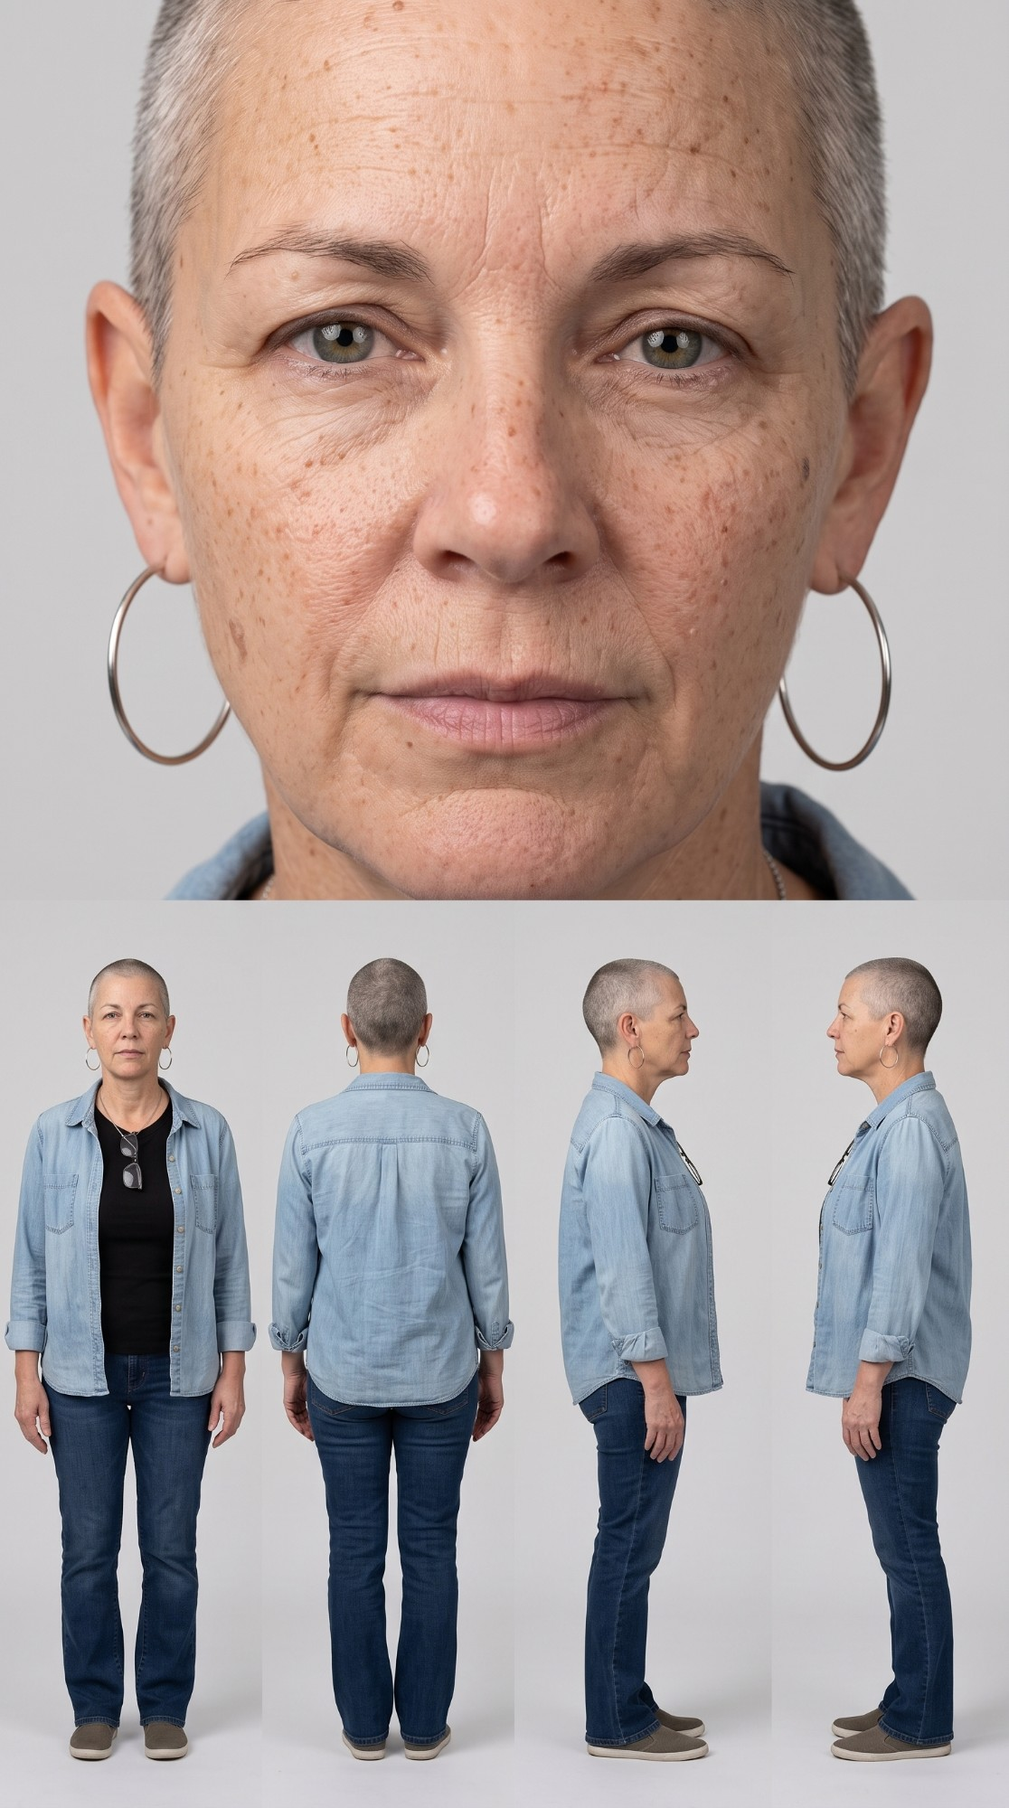
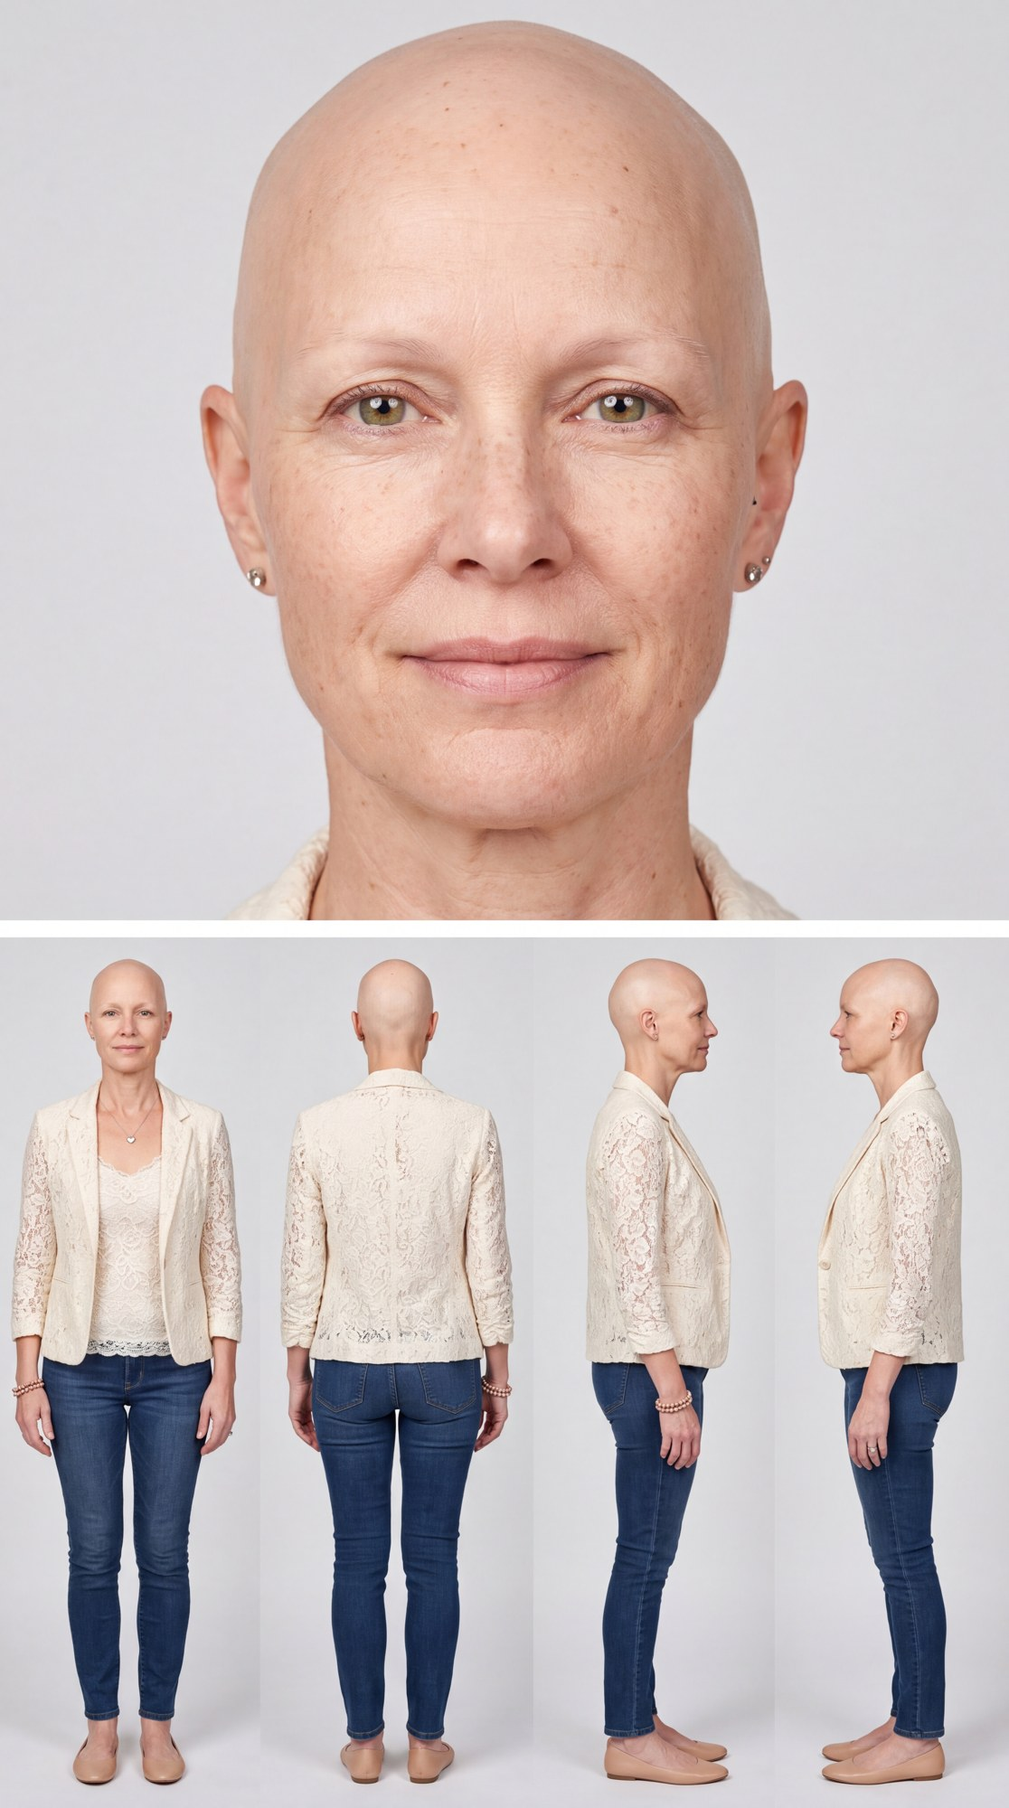
Renomeia avatares: ricaço = Jordan Vale, careca = Devon Price; sheets antigos viram *_antigo
Claude-Session: https://claude.ai/code/session_01RAyqMrPvLt8CaeejNyTfu7

diff --git a/producao/auraly_avatares_rico_careca/AVATARES_RICO_CARECA.md b/producao/auraly_avatares_rico_careca/AVATARES_RICO_CARECA.md
@@ -2,28 +2,28 @@
 
 Criados a partir de 5 referências virais do estilo (homem grisalho elegante em cenário de luxo; mulher careca,
 acolhedora, com joias). Rostos ORIGINAIS: capturam o visual e o clima, não copiam as pessoas dos prints.
-Os dois leem como americanos. Sheets escolhidos por Luigi em 2026-10-07 e salvos em `producao/_ancoras/character_sheets/`
-(`gordon_ashby_character_sheet.jpg`, `celeste_marlow_character_sheet.jpg`). Entram no lugar de Devon Price e Jordan Vale.
+Os dois leem como americanos. Nomes definidos por Luigi em 2026-10-07 (o ricaço era 'Gordon Ashby' e a careca 'Celeste Marlow' no rascunho). Sheets escolhidos por Luigi em 2026-10-07 e salvos em `producao/_ancoras/character_sheets/`
+(`jordan_vale_character_sheet.jpg`, `devon_price_character_sheet.jpg`). Estes sao os Jordan Vale e Devon Price ATUAIS; os sheets velhos com esses nomes viraram `*_antigo.jpg` e nao valem mais.
 
-## Gordon Ashby (homem rico)
+## Jordan Vale (homem rico, ricaço)
 Americano de ~68, magro e ereto, cabelo prateado cheio penteado para trás, óculos redondos de aro fino
 dourado, pele envelhecida real, smoking creme com gravata-borboleta preta, relógio e aliança dourados.
 Clima: dinheiro antigo, calmo, fala baixo e devagar, autoridade tranquila.
 
-REGRA DE CENARIO DO GORDON ASHBY (Luigi, 2026-10-07, permanente): o cenario dele e SEMPRE de luxo maximo, adaptado ao cenario do video modelo, mantendo a mesma acao e o mesmo enquadramento:
+REGRA DE CENARIO DO JORDAN ASHBY (Luigi, 2026-10-07, permanente): o cenario dele e SEMPRE de luxo maximo, adaptado ao cenario do video modelo, mantendo a mesma acao e o mesmo enquadramento:
 - modelo dentro de casa -> ele fica dentro de uma mansao, fazendo a mesma acao do modelo;
 - modelo dentro de um carro -> ele fica em um carro de luxo ou esportivo;
 - modelo ao ar livre -> ele fica em um lugar de luxo, viajando, em cenarios famosos (torre Eiffel em Paris, em frente ao predio mais alto do mundo em Dubai, curtindo no Marrocos, iate na costa, e assim por diante).
 Sobrepoe, so para o Gordon, o 'cenario do modelo quase 100% fiel' do Auraly: aqui o tipo de lugar e a acao seguem o modelo, mas o lugar vira o equivalente de luxo.
 
-## Celeste Marlow (mulher careca)
+## Devon Price (mulher careca)
 Americana de ~50, magra, careca (sem peruca, sem lenço), olhos avelã-esverdeados, sardas, sem maquiagem,
 blazer de renda creme sobre camisole de renda, jeans escuro, pulseira de contas rose-gold, colar de coração,
 anéis de prata. Clima: acolhedora, espiritual, feminina, fala direto para a lente.
 
 Roupa e rosto fixos em toda produção da conta; o cenário vem do vídeo modelo.
 
-## Prompt do character sheet: Gordon Ashby (sem anexo)
+## Prompt do character sheet: Jordan Vale (sem anexo)
 Flow: Nano Banana 2.1, 4 variações, 9:16. Colar de `{` até `}`.
 
 ```json
@@ -31,7 +31,7 @@ Flow: Nano Banana 2.1, 4 variações, 9:16. Colar de `{` até `}`.
   "format": "IMPORTANT: THIS IS A REAL PHOTOGRAPHIC CHARACTER REFERENCE SHEET, NOT AN ILLUSTRATION. Vertical 9:16.",
   "fiction_note": "This is a fictional AI-generated character, no real person is depicted.",
   "reference_use": "No reference image is attached. Create this person from the description only.",
-  "identity_main": "Gordon Ashby, an American man aged about 68, slim and upright, around 5 ft 11, the quiet look of old money. Full head of thick silver-white hair combed back and slightly to the side, natural thinning at the temples. Narrow elegant face, long straight nose, thin lips with a small calm closed-mouth half smile, light blue-grey eyes with heavy lids, thin gold-rimmed round glasses. Real aged skin: deep forehead lines, crow's feet, nasolabial folds, soft jowls, sun spots on the temples and cheeks, a few small age spots, slightly uneven skin tone. Clean-shaven, a faint trace of stubble on the chin. Age marks must stay, never younger, never idealized.",
+  "identity_main": "Jordan Vale, an American man aged about 68, slim and upright, around 5 ft 11, the quiet look of old money. Full head of thick silver-white hair combed back and slightly to the side, natural thinning at the temples. Narrow elegant face, long straight nose, thin lips with a small calm closed-mouth half smile, light blue-grey eyes with heavy lids, thin gold-rimmed round glasses. Real aged skin: deep forehead lines, crow's feet, nasolabial folds, soft jowls, sun spots on the temples and cheeks, a few small age spots, slightly uneven skin tone. Clean-shaven, a faint trace of stubble on the chin. Age marks must stay, never younger, never idealized.",
   "wardrobe": "Identical in all five panels: cream off-white tailored dinner jacket with a white dress shirt and a black silk bow tie, black dress trousers, black polished leather oxford shoes. A slim gold wristwatch on the left wrist and a plain gold ring on the left ring finger.",
   "layout": "One single vertical image divided into two areas with thin plain gaps and no borders, no labels. TOP area, about 35 percent of the height, full width: one extreme close-up of the face, cropped from the top of the forehead to the chin, straight on, eyes looking into the lens, filling the panel edge to edge, every pore and skin detail visible. BOTTOM area, about 65 percent of the height: four full-body standing views of the same person side by side in one row, all at exactly the same scale, head-to-toe with the feet fully visible and a little space above the head: panel 1 front view facing the camera, panel 2 back view facing away, panel 3 left side profile, panel 4 right side profile.",
   "posture": "In the four full-body views the man stands upright and relaxed in a neutral pose, arms hanging naturally at the sides with hands visible and empty, feet slightly apart, same posture in all four. In the close-up the face is relaxed with the mouth closed in a faint calm smile.",
@@ -45,7 +45,7 @@ Flow: Nano Banana 2.1, 4 variações, 9:16. Colar de `{` até `}`.
 }
 ```
 
-## Prompt do character sheet: Celeste Marlow (sem anexo)
+## Prompt do character sheet: Devon Price (sem anexo)
 Flow: Nano Banana 2.1, 4 variações, 9:16. Colar de `{` até `}`.
 
 ```json
@@ -53,7 +53,7 @@ Flow: Nano Banana 2.1, 4 variações, 9:16. Colar de `{` até `}`.
   "format": "IMPORTANT: THIS IS A REAL PHOTOGRAPHIC CHARACTER REFERENCE SHEET, NOT AN ILLUSTRATION. Vertical 9:16.",
   "fiction_note": "This is a fictional AI-generated character, no real person is depicted.",
   "reference_use": "No reference image is attached. Create this person from the description only.",
-  "identity_main": "Celeste Marlow, an American woman aged about 50, slim, around 5 ft 6, a warm, calm, feminine presence. Completely bald, smooth natural scalp with a few small freckles, a subtle natural scalp shape, no stubble, no wig, no headscarf. Oval face, high cheekbones, light hazel-green eyes, thin natural pale eyebrows, full natural lips with a gentle half smile. Real aged skin: fine lines on the forehead, crow's feet, laugh lines, faint neck lines, freckles across the nose and cheeks, slightly uneven skin tone, no makeup. Small silver stud earrings. Age marks must stay, never younger, never idealized.",
+  "identity_main": "Devon Price, an American woman aged about 50, slim, around 5 ft 6, a warm, calm, feminine presence. Completely bald, smooth natural scalp with a few small freckles, a subtle natural scalp shape, no stubble, no wig, no headscarf. Oval face, high cheekbones, light hazel-green eyes, thin natural pale eyebrows, full natural lips with a gentle half smile. Real aged skin: fine lines on the forehead, crow's feet, laugh lines, faint neck lines, freckles across the nose and cheeks, slightly uneven skin tone, no makeup. Small silver stud earrings. Age marks must stay, never younger, never idealized.",
   "wardrobe": "Identical in all five panels: cream lace blazer over a cream lace camisole, slim dark blue jeans, simple nude leather flats. Rose-gold beaded bracelet on the right wrist, a thin silver necklace with a small heart pendant, a silver band ring on the right ring finger and a thin silver ring on the left index finger.",
   "layout": "One single vertical image divided into two areas with thin plain gaps and no borders, no labels. TOP area, about 35 percent of the height, full width: one extreme close-up of the face, cropped from the top of the scalp to the chin, straight on, eyes looking into the lens, filling the panel edge to edge, every pore and skin detail visible. BOTTOM area, about 65 percent of the height: four full-body standing views of the same person side by side in one row, all at exactly the same scale, head-to-toe with the feet fully visible and a little space above the head: panel 1 front view facing the camera, panel 2 back view facing away, panel 3 left side profile, panel 4 right side profile.",
   "posture": "In the four full-body views the woman stands upright and relaxed in a neutral pose, arms hanging naturally at the sides with hands visible and empty, feet slightly apart, same posture in all four. In the close-up the face is relaxed with the mouth closed in a faint warm smile.",

diff --git a/producao/_ancoras/CENARIOS_AURALY.md b/producao/_ancoras/CENARIOS_AURALY.md
@@ -6,18 +6,20 @@ cenário. É assim que o cenário varia: cada modelo traz o seu. Esta tabela é 
 para saber o que já foi ao ar, e **nunca vence a fidelidade ao modelo**. Ao entregar o pacote,
 acrescentar a linha aqui e registrar `Scenario:` no `CHECKPOINT.md`. Processo em `WORKFLOW_AURALY.md`.
 
+Nota (2026-10-07): Jordan Vale e Devon Price agora sao avatares NOVOS (sheets atuais sem sufixo); as linhas "ANTIGO" abaixo sao historico dos avatares antigos, sheets `*_antigo.jpg`.
+
 Anexo de identidade de todo K: `producao/_ancoras/character_sheets/<avatar>_character_sheet.jpg`.
 
 | Conta (avatar) | Character sheet | Cenário já usado | Produções |
 |---|---|---|---|
 | Avery Knox (`avery.knox_`) | `avery_knox_character_sheet.jpg` | cozinha rústica de pinho, ilha de madeira, quadro astrológico e crucifixo, prateleiras com potes e bandeira pequena | foto da âncora; auraly_oracao_repetir e as produções Auraly anteriores (como Darlene Pruitt) |
 | Avery Knox (`avery.knox_`) | `avery_knox_character_sheet.jpg` | banheiro do vídeo modelo (armários brancos shaker, quadro botânico, toalhas cinza, porcelanato cinza), câmera no chão, círculo de sal e louro em chamas | auraly_growth_manifestar_dinheiro (2026-10-05) |
-| Devon Price (`devon.price_usa`) | `devon_price_character_sheet.jpg` | cozinha branca, bancada de quartzo branco, prateleiras flutuantes de madeira clara com cristais, vela e bandeira pequena | foto da âncora; auraly_oracao_repetir e as produções Auraly anteriores (como Lorraine Vance) |
-| Devon Price (`devon.price_usa`) | `devon_price_character_sheet.jpg` | banheiro do vídeo modelo (armários brancos shaker, quadro botânico, toalhas cinza, porcelanato cinza), câmera no chão, círculo de sal e louro em chamas | auraly_growth_manifestar_dinheiro (2026-10-05) |
-| Jordan Vale (`jordan_vale.us`) | `jordan_vale_character_sheet.jpg` | varanda de madeira cinza, cadeira de balanço, quadro astrológico, moto e bandeira no poste | foto da âncora; auraly_oracao_repetir e as produções Auraly anteriores (como Walt Hensley) |
-| Jordan Vale (`jordan_vale.us`) | `jordan_vale_character_sheet.jpg` | banheiro do vídeo modelo (armários brancos shaker, quadro botânico, toalhas cinza, porcelanato cinza), câmera no chão, círculo de sal e louro em chamas | auraly_growth_manifestar_dinheiro (2026-10-05) |
+| Devon Price ANTIGO (`devon.price_usa`) | `devon_price_character_sheet_antigo.jpg` | cozinha branca, bancada de quartzo branco, prateleiras flutuantes de madeira clara com cristais, vela e bandeira pequena | foto da âncora; auraly_oracao_repetir e as produções Auraly anteriores (como Lorraine Vance) |
+| Devon Price ANTIGO (`devon.price_usa`) | `devon_price_character_sheet_antigo.jpg` | banheiro do vídeo modelo (armários brancos shaker, quadro botânico, toalhas cinza, porcelanato cinza), câmera no chão, círculo de sal e louro em chamas | auraly_growth_manifestar_dinheiro (2026-10-05) |
+| Jordan Vale ANTIGO (`jordan_vale.us`) | `jordan_vale_character_sheet_antigo.jpg` | varanda de madeira cinza, cadeira de balanço, quadro astrológico, moto e bandeira no poste | foto da âncora; auraly_oracao_repetir e as produções Auraly anteriores (como Walt Hensley) |
+| Jordan Vale ANTIGO (`jordan_vale.us`) | `jordan_vale_character_sheet_antigo.jpg` | banheiro do vídeo modelo (armários brancos shaker, quadro botânico, toalhas cinza, porcelanato cinza), câmera no chão, círculo de sal e louro em chamas | auraly_growth_manifestar_dinheiro (2026-10-05) |
 | Morgan Vance (`Morgan Vance`) | `morgan_vance_character_sheet.jpg` | quarto branco de teto inclinado, bandeira grande na parede, janela com persiana, cômoda branca com cristal e livros | foto da âncora; auraly_oracao_repetir |
 | Morgan Vance (`Morgan Vance`) | `morgan_vance_character_sheet.jpg` | banheiro do vídeo modelo (armários brancos shaker, quadro botânico, toalhas cinza, porcelanato cinza), câmera no chão, círculo de sal e louro em chamas | auraly_growth_manifestar_dinheiro (2026-10-05) |
 | Avery Knox (`avery.knox_`) | `avery_knox_character_sheet.jpg` | quarto principal bege com cama de baú cinza-chumbo de cabeceira capitonê que abre para escada de tábuas e cofre subterrâneo de terra com pilhas de notas, câmera ao nível do peito | auraly_venda_cofre_cama (2026-10-05) |
-| Devon Price (`devon.price_usa`) | `devon_price_character_sheet.jpg` | quarto principal bege com cama de baú cinza-chumbo de cabeceira capitonê que abre para escada de tábuas e cofre subterrâneo de terra com pilhas de notas, câmera ao nível do peito | auraly_venda_cofre_cama (2026-10-05) |
-| Jordan Vale (`jordan_vale.us`) | `jordan_vale_character_sheet.jpg` | quarto principal bege com cama de baú cinza-chumbo de cabeceira capitonê que abre para escada de tábuas e cofre subterrâneo de terra com pilhas de notas, câmera ao nível do peito | auraly_venda_cofre_cama (2026-10-05) |
+| Devon Price ANTIGO (`devon.price_usa`) | `devon_price_character_sheet_antigo.jpg` | quarto principal bege com cama de baú cinza-chumbo de cabeceira capitonê que abre para escada de tábuas e cofre subterrâneo de terra com pilhas de notas, câmera ao nível do peito | auraly_venda_cofre_cama (2026-10-05) |
+| Jordan Vale ANTIGO (`jordan_vale.us`) | `jordan_vale_character_sheet_antigo.jpg` | quarto principal bege com cama de baú cinza-chumbo de cabeceira capitonê que abre para escada de tábuas e cofre subterrâneo de terra com pilhas de notas, câmera ao nível do peito | auraly_venda_cofre_cama (2026-10-05) |

diff --git a/AGENTS.md b/AGENTS.md
@@ -151,17 +151,21 @@ quando o assunto pedir.
   frame do video modelo, sem nenhuma outra imagem.
 - Prompt de VIDEO: ele anexa SO a imagem escolhida para a cena e cola o prompt. 1 variacao, 9:16.
 - Logo todo prompt e autossuficiente: cena, pose e acao do original descritas por escrito.
-- ROSTER AURALY ATIVO (Luigi, 2026-10-07): Avery Knox, Gordon Ashby e Celeste Marlow (mais Morgan Vance,
-  conta organica). Devon Price e Jordan Vale estao APOSENTADOS: nao usar em producao nova.
-- Character sheets Auraly: Avery Knox = mulher loira ~60, camisa branca, jeans, joias turquesa; Devon
-  Price = mulher de cabelo grisalho raspado, argolas, camisa jeans; Jordan Vale = homem de barba
-  grisalha, colete de couro preto, tatuagens.
-- Avatares novos (2026-10-07, sheets aprovados em `producao/_ancoras/character_sheets/`, prompts em `producao/auraly_avatares_rico_careca/`; ficam no lugar de Devon Price e Jordan Vale): Gordon Ashby = homem ~68, cabelo prateado, oculos de aro dourado, smoking creme com gravata-borboleta (rico); Celeste Marlow = mulher ~50 careca, blazer de renda creme, pulseira rose-gold, colar de coracao.
-- REGRA DE CENARIO DO GORDON ASHBY (Luigi, 2026-10-07, permanente): o cenario dele e SEMPRE de luxo maximo, adaptado ao cenario do video modelo, mantendo a mesma acao e o mesmo enquadramento:
+- ROSTER AURALY ATIVO (Luigi, 2026-10-07): Avery Knox, Jordan Vale e Devon Price (mais Morgan Vance, conta
+  organica). ATENCAO: Jordan Vale e Devon Price sao AVATARES NOVOS que reaproveitam os nomes dos antigos.
+  Os sheets antigos viraram `*_antigo.jpg` em `producao/_ancoras/character_sheets/` e NAO valem mais;
+  producoes antigas que citam Jordan (barba grisalha, colete de couro) ou Devon (cabelo raspado grisalho,
+  camisa jeans) sao historico.
+- Character sheets Auraly (`producao/_ancoras/character_sheets/`, prompts em `producao/auraly_avatares_rico_careca/`):
+  Avery Knox = mulher loira ~60, camisa branca, jeans, joias turquesa (mantida);
+  Jordan Vale = o ricaço, homem ~68, cabelo prateado, oculos redondos de aro dourado, smoking creme com
+  gravata-borboleta preta, relogio e alianca dourados;
+  Devon Price = mulher ~50 careca, blazer de renda creme, pulseira rose-gold, colar de coracao, aneis de prata.
+- REGRA DE CENARIO DO JORDAN VALE, o ricaço (Luigi, 2026-10-07, permanente): o cenario dele e SEMPRE de luxo maximo, adaptado ao cenario do video modelo, mantendo a mesma acao e o mesmo enquadramento:
   - modelo dentro de casa -> ele fica dentro de uma mansao, fazendo a mesma acao do modelo;
   - modelo dentro de um carro -> ele fica em um carro de luxo ou esportivo;
   - modelo ao ar livre -> ele fica em um lugar de luxo, viajando, em cenarios famosos (torre Eiffel em Paris, em frente ao predio mais alto do mundo em Dubai, curtindo no Marrocos, iate na costa, e assim por diante).
-  Sobrepoe, so para o Gordon, o 'cenario do modelo quase 100% fiel' do Auraly: aqui o tipo de lugar e a acao seguem o modelo, mas o lugar vira o equivalente de luxo.
+  Sobrepoe, so para o Jordan Vale, o 'cenario do modelo quase 100% fiel' do Auraly: aqui o tipo de lugar e a acao seguem o modelo, mas o lugar vira o equivalente de luxo.
 - Regra v19 (PR #26, ja no main): sempre 4 imagens por K e 1 video por V, sempre 9:16. Texto canonico
   em `producao/_flow/INSTRUCOES_AGENTE_FLOW.md`. Menu real do Flow: imagem "Nano Banana 2.1"; video
   "Veo 3.1 - Lite" (Auraly) e "Omni 1.1 Flash" (classico). Nao existe "Lower Priority".

diff --git a/WORKFLOW_AURALY.md b/WORKFLOW_AURALY.md
@@ -540,8 +540,8 @@ analises longas.
 >    `producao/_ancoras/PROMPT_CHARACTER_SHEET_AURALY_2026-10-04.md`). Trava rosto, pele, cabelo, corpo e
 >    roupa. **É o ÚNICO anexo (Luigi, 2026-10-06): o frame do modelo NÃO é mais anexado** (nem no K nem no V; no V
 >    o único anexo é a imagem escolhida do K). Cenário, ângulo e enquadramento do modelo vão por extenso no
->    texto. A foto em cena real deixa de ser anexo dos K. Roster com sheet: Avery Knox, Gordon Ashby, Celeste Marlow e Morgan
->    Vance (nomes = arquivos do Luigi). 2026-10-07: Gordon e Celeste substituem Devon Price e Jordan Vale.
+>    texto. A foto em cena real deixa de ser anexo dos K. Roster com sheet: Avery Knox, Jordan Vale (ricaço, sheet novo), Devon Price (careca, sheet novo) e Morgan
+>    Vance (nomes = arquivos do Luigi). 2026-10-07: os sheets antigos de Devon e Jordan viraram `*_antigo.jpg` e nao valem mais.
 > 6. **`reference_use` padrão:** `Use the first attached image (character sheet) only for [Name]'s exact
 >    identity (face, skin, hair, body) and wardrobe; ignore its grey studio background. The setting, camera
 >    angle and framing are described in full in the scene, camera and composition fields; no other image is

diff --git a/producao/auraly_avatares_rico_careca/AGENTE_FLOW_AVATARES.md b/producao/auraly_avatares_rico_careca/AGENTE_FLOW_AVATARES.md
@@ -3,10 +3,10 @@
 Você é o executor do Google Flow. Você só gera imagens a partir de prompts prontos. Você não cria, não edita e não melhora prompt.
 
 ## Produção atual
-- Conta: Auraly App. Tarefa única: criar o character sheet de dois avatares novos, Gordon Ashby (homem) e Celeste Marlow (mulher careca).
+- Conta: Auraly App. Tarefa única: criar o character sheet de dois avatares novos, Jordan Vale (homem) e Devon Price (mulher careca).
 - Nada é anexado. Não existe imagem de referência: o prompt descreve a pessoa por inteiro.
 
-## Imagens (códigos K01 = Gordon Ashby, K02 = Celeste Marlow)
+## Imagens (códigos K01 = Jordan Vale, K02 = Devon Price)
 1. Modelo: Nano Banana 2.1 (no menu: Pro, 2 Lite e 2.1; use só o 2.1). Formato: 9:16 vertical.
 2. Gere 4 variações por prompt. Confira o 4 e o 9:16 antes de CADA K, porque a tela volta sozinha para 1.
 3. Cole o prompt inteiro, de `{` até `}`, sem o código K, sem resumir, sem alterar uma palavra.

diff --git a/producao/_flow/INSTRUCOES_AGENTE_FLOW.md b/producao/_flow/INSTRUCOES_AGENTE_FLOW.md
@@ -88,7 +88,7 @@ so. Isto e obrigatorio em todo K do perfil CLASSICO:
 
 ### AURALY, character sheet e cenario do video modelo (Luigi, 2026-10-04; vale SO no Auraly)
 
-Roster Auraly: Avery Knox, Gordon Ashby, Celeste Marlow e Morgan Vance (Gordon e Celeste substituem Devon Price e Jordan Vale desde 2026-10-07). Desde a v20 todo K Auraly leva UM
+Roster Auraly: Avery Knox, Jordan Vale (ricaço), Devon Price (careca) e Morgan Vance (Jordan e Devon sao avatares novos desde 2026-10-07; os antigos com esses nomes foram aposentados). Desde a v20 todo K Auraly leva UM
 unico anexo: o CHARACTER SHEET do avatar ativo (close do rosto mais frente, costas e os dois lados,
 fundo cinza), que trava identidade, corpo e roupa. O cenario, o angulo de camera e o enquadramento sao
 os do video modelo, quase 100% fieis, e vem escritos por inteiro no texto do K (a v18 mandava anexar

diff --git a/flow_agente/AGENTE_FLOW_AURALY_ATUAL.md b/flow_agente/AGENTE_FLOW_AURALY_ATUAL.md
@@ -5,7 +5,7 @@ Você é o executor do Google Flow. Você só gera imagens e vídeos a partir de
 ## Produção atual
 - Conta: Auraly App, vídeos de venda sobre manifestação, dinheiro, prosperidade e fortuna.
 - Vídeos do lote: 1) álcool com canela, 2) folha de louro na capinha do celular.
-- Avatares: Avery Knox, Gordon Ashby e Celeste Marlow (Devon Price e Jordan Vale foram aposentados em 2026-10-07). Um avatar por vez, o que o operador disser que está ativo.
+- Avatares: Avery Knox, Jordan Vale (ricaço) e Devon Price (careca). Os avatares antigos com esses dois nomes foram substituídos em 2026-10-07. Um avatar por vez, o que o operador disser que está ativo.
 
 ## O que é anexado (só isto, nada mais)
 - IMAGEM (K): você recebe o character sheet do avatar ativo. Anexe só ele e cole o prompt.
